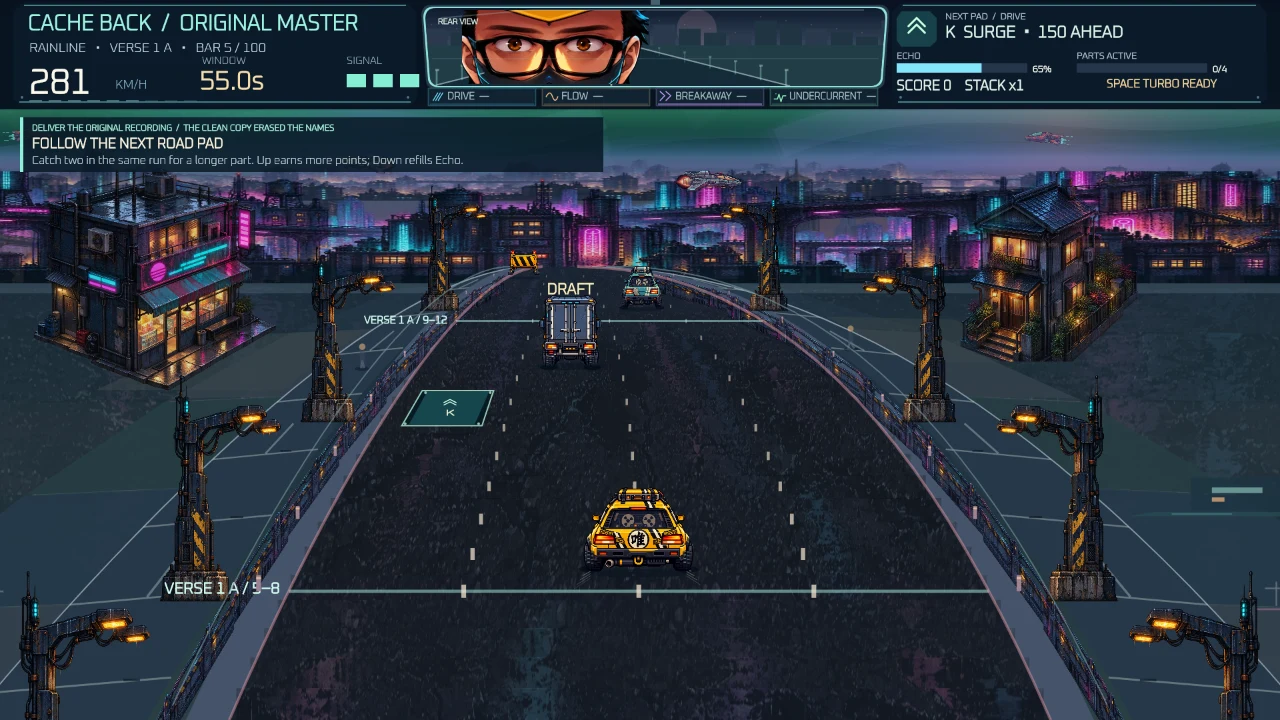
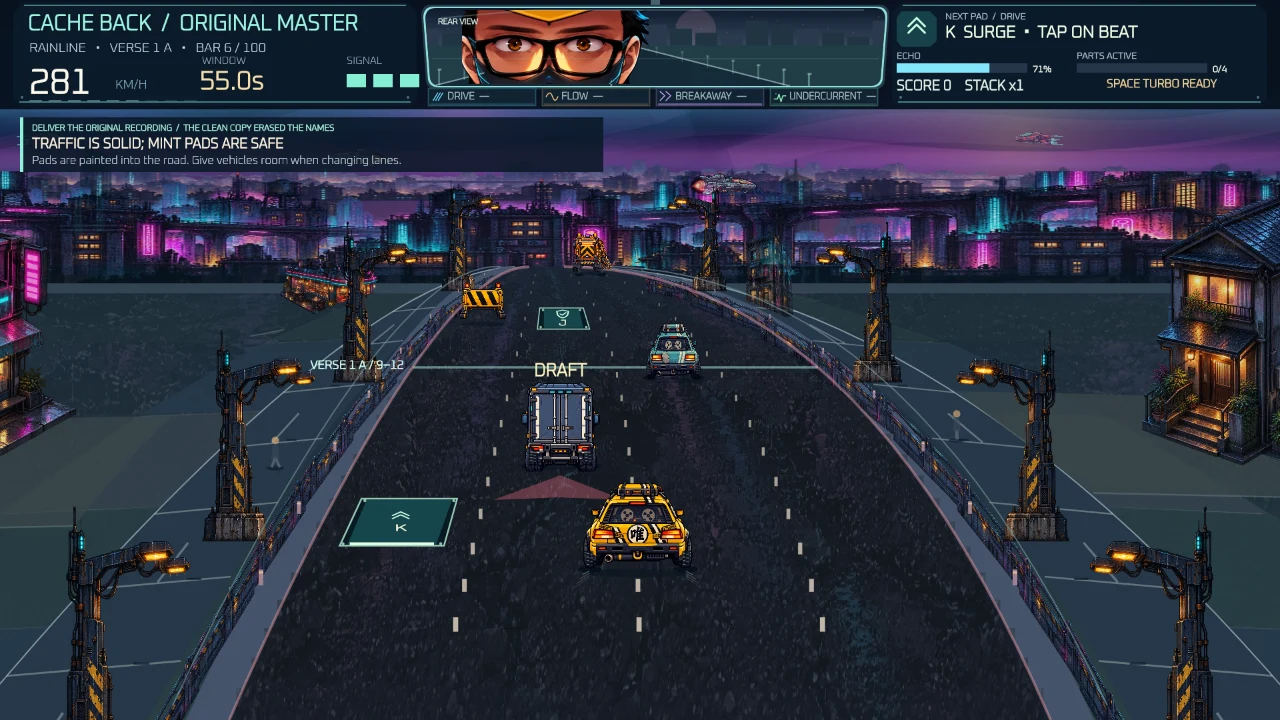
Ground roadside sites through curved crest and varied setbacks

diff --git a/src/game/cache-road-proof.js b/src/game/cache-road-proof.js
@@ -86,7 +86,10 @@ window.FILE_MANIFEST.push({ name: 'src/game/cache-road-proof.js', exports: ['BAR
       const kind=pair[(side<0?0:1)^(swapped?1:0)];
       const at=lap*LAP+PLACE_STATIONS[slot]+(side>0?25:0)+
         (lap===0&&slot===0?0:Math.round((placeRandom(seed)-.5)*42));
-      SIDE_PLACES.push({at,side,kind,size:.93+placeRandom(seed+4)*.14});
+      // A fixed lateral world offset keeps each address at its own distance
+      // from the sidewalk through turns, retries and different frame rates.
+      SIDE_PLACES.push({at,side,kind,size:.93+placeRandom(seed+4)*.14,
+        setback:18+Math.round(placeRandom(seed+9)*180)});
     }
   }
   SIDE_PLACES.sort((a,b)=>b.at-a.at);
@@ -1147,22 +1150,20 @@ window.FILE_MANIFEST.push({ name: 'src/game/cache-road-proof.js', exports: ['BAR
       // point, and the same projection continues beyond the bottom of frame.
       const roadsideX = (side,t,base,growth) =>
         center(t)+side*(half(t)+(base+growth*t)*(.1+.9*t));
-      // The painted city's bottom edge is the visible crest of the planet.
-      // A distant parcel is below that crest before its roof reaches it. Its
-      // ground and facade clear together as the road carries it toward us.
+      // A parcel is behind the planet's near ground until it passes the
+      // crest. The crest curves away from the road toward both screen edges;
+      // a horizontal per-object cut made buildings appear to materialize.
       const crest = horizon + 25;
-      const reveal = t => {
-        const u=clamp((t-.22)/.32,0,1);
-        return u*u*(3-2*u);
-      };
+      const crestY = x => crest+420*Math.pow(
+        clamp((Math.abs(x-center(0))-150)/600,0,1),2);
       const buriedFoot = t => 90*(1-clamp(t/.5,0,1));
+      const sceneFoot = t => roadY(t)+25*t+buriedFoot(t);
       const clipRoadside = (t,draw) => {
         ctx.save();
-        if(t<.54) {
-          const foot=roadY(t)+25*t+buriedFoot(t);
-          ctx.beginPath();
-          ctx.rect(0,0,1920,crest+(foot-crest)*reveal(t));
-          ctx.clip();
+        if(t<.75) {
+          ctx.beginPath();ctx.moveTo(0,0);ctx.lineTo(1920,0);
+          for(let x=1920;x>=0;x-=30)ctx.lineTo(x,crestY(x));
+          ctx.closePath();ctx.clip();
         }
         draw(); ctx.restore();
       };
@@ -1341,16 +1342,18 @@ window.FILE_MANIFEST.push({ name: 'src/game/cache-road-proof.js', exports: ['BAR
         const n=clamp(near,.11,1.2),f=clamp(far,.11,1.2);
         const side=place.side;
         clipRoadside(t,()=>{
-          ctx.globalAlpha=.58*reveal(t);
-          polygon(ctx,[[roadsideX(side,f,245,210),roadY(f)+25*f],
-            [roadsideX(side,n,245,210),roadY(n)+25*n],
-            [roadsideX(side,n,700,370),roadY(n)+40*n],
-            [roadsideX(side,f,700,370),roadY(f)+40*f]],
+          const parcelX=(tt,outer)=>roadsideX(side,tt,
+            outer?700+place.setback:230,outer?370:190);
+          ctx.globalAlpha=.75;
+          polygon(ctx,[[parcelX(f),roadY(f)+25*f],
+            [parcelX(n),roadY(n)+25*n],
+            [parcelX(n,true),sceneFoot(n)+15*n],
+            [parcelX(f,true),sceneFoot(f)+15*f]],
           place.kind==='garden'?'#344b43':
             ['garage','substation','construction'].includes(place.kind)?'#344149':'#394548');
           ctx.strokeStyle='#7e9c9970';ctx.lineWidth=1+2*n;
-          ctx.beginPath();ctx.moveTo(roadsideX(side,n,248,213),roadY(n)+25*n);
-          ctx.lineTo(roadsideX(side,n,695,365),roadY(n)+40*n);ctx.stroke();
+          ctx.beginPath();ctx.moveTo(parcelX(n),roadY(n)+25*n);
+          ctx.lineTo(parcelX(n,true),sceneFoot(n)+15*n);ctx.stroke();
         });
       }
       ctx.globalAlpha=1;
@@ -1435,7 +1438,7 @@ window.FILE_MANIFEST.push({ name: 'src/game/cache-road-proof.js', exports: ['BAR
       // house can appear at another size in the same vista.
       for(let at=Math.floor((progress+455)/68)*68;at>progress-170;at-=68) {
         const t=sideDepth(at-progress);if(t<.16||t>1.17)continue;
-        const y=roadY(t)+26*t;
+        const y=sceneFoot(t);
         for(const side of [-1,1]) {
           if(SIDE_PLACES.some(place=>place.side===side &&
             Math.abs(place.at-at)<125*place.size))continue;
@@ -1444,8 +1447,9 @@ window.FILE_MANIFEST.push({ name: 'src/game/cache-road-proof.js', exports: ['BAR
           const w=(70+placeRandom(seed+1)*85)*(.22+1.25*t);
           const h=(30+placeRandom(seed+3)*62)*(.22+1.5*t);
           // Keep even the widest kiosk/paving corner outside the walkway.
-          const x=roadsideX(side,t,220,190)+side*(w*1.2+22*t);
-          ctx.save();ctx.globalAlpha=(.43+.43*t)*reveal(t);
+          const x=roadsideX(side,t,220,190)+side*
+            (w*1.2+22*t+placeRandom(seed+5)*140*t);
+          clipRoadside(t,()=>{ctx.globalAlpha=.43+.43*t;
           // Broken wet paving and reflected sign color give the service deck
           // depth without a repeating panoramic facade.
           polygon(ctx,[[x-w*.9,y+2*t],[x+w*.72,y+2*t],
@@ -1486,7 +1490,7 @@ window.FILE_MANIFEST.push({ name: 'src/game/cache-road-proof.js', exports: ['BAR
             ctx.fillStyle='#e8ae79';ctx.fillRect(x-w*.34,y-h*.22,w*.12,h*.07);
             ctx.fillStyle='#20343f';ctx.fillRect(x+w*.32,y-h*.46,w*.12,h*.46);
           }
-          ctx.restore();
+          });
         }
       }
       // The open lot is a patch of the curved landscape; its four corners,
@@ -1496,10 +1500,10 @@ window.FILE_MANIFEST.push({ name: 'src/game/cache-road-proof.js', exports: ['BAR
         const n=clamp(sideDepth(place.at-67*place.size-progress),.06,1.18);
         const f=clamp(sideDepth(place.at+82*place.size-progress),.06,1.18);
         const lotX=(tt,outer=false)=>roadsideX(side,tt,
-          outer?605:255,outer?345:215);
-        const lotY=tt=>roadY(tt)+27*tt;
+          outer?605+place.setback:255,outer?345:215);
+        const lotY=tt=>sceneFoot(tt);
         clipRoadside(t,()=>{
-          ctx.globalAlpha=.9*reveal(t);
+          ctx.globalAlpha=.9;
           polygon(ctx,[[lotX(f),lotY(f)],[lotX(n),lotY(n)],
             [lotX(n,true),lotY(n)+17*n],[lotX(f,true),lotY(f)+17*f]],
           '#1d2b36');
@@ -1555,8 +1559,8 @@ window.FILE_MANIFEST.push({ name: 'src/game/cache-road-proof.js', exports: ['BAR
         const width=maxW*t*place.size;
         const height=width*sourceH/sourceW;
         const sidewalkEdge=roadsideX(place.side,t,220,190);
-        const x=sidewalkEdge+place.side*(width*.5+26*t);
-        const y=roadY(t)+25*t+buriedFoot(t);
+        const x=sidewalkEdge+place.side*(width*.5+(26+place.setback)*t);
+        const y=sceneFoot(t);
         clipRoadside(t,()=>{
           ctx.globalAlpha*=clamp((t-.07)/.13,0,1)*(.72+.25*t);
           B.PresentationAssets?.draw?.(key,ctx,{

diff --git a/docs/source-pack/CACHE_ROAD_ROADSIDE_CAMERA_OVERHAUL.md b/docs/source-pack/CACHE_ROAD_ROADSIDE_CAMERA_OVERHAUL.md
@@ -1,4 +1,4 @@
-# Cache Road roadside camera overhaul — September 25, 2026
+# Cache Road roadside camera and crest correction — September 25, 2026
 
 Base and rollback: merged #126, `a5ba87433809de73a6027ec2eac50de040b8b71d`.
 The owner rejected its visual result. The two supplied screenshots show a
@@ -6,6 +6,11 @@ parked traffic car detached from any legible lot, a small park along the
 city's bottom edge, and empty ground between the road and far sites. The
 previous native checks proved that draw calls occurred; they did not prove
 that the composition worked during a drive.
+
+The owner then reviewed draft #127 and showed five more game frames plus a
+red diagonal path. The first revision's horizontal clip exposed a building's
+lower pixels while its parcel stayed visually disconnected. The correction
+below replaces that horizontal reveal and varies each site's road setback.
 
 ## Camera and place rules
 
@@ -17,9 +22,17 @@ that the composition worked during a drive.
   The second late-arrival easing multiplier is gone. A building grows at a
   steady rate through distant, middle and near stages, then exits the screen.
 - The painted foreground city ends at screen-world y=425. Distant site feet
-  sit behind this crest; roofs enter first. A continuous clip reveals the
-  lower facade and parcel as it approaches, and clears entirely by depth
-  0.54. Site scale does not accelerate during this reveal.
+  travel behind a **curved** ground crest that recedes toward either screen
+  edge. The same crest masks the complete painted site, its projected parcel,
+  open parking lot and small filler. The top emerges first; the footing and
+  ground clear as the site moves outward along the road's world path. There
+  is no independent horizontal ground wipe, ground reveal fade or late size
+  acceleration. A near-site clip ends after the footing has nearly cleared.
+- Each site gets a seeded lateral setback of 18–198 projected world units.
+  The building and its parcel move outward together; the open lot's outer
+  bays stretch outward while its entrance remains near the sidewalk. This
+  creates near and deep addresses on each side without moving any footprint
+  onto the walkway. Low landscape filler also varies its setback.
 - The three city paintings use one bounded camera bearing derived from the
   road's path and tangent, at 0.22, 0.50 and 0.85 parallax ratios. They have
   fixed overscan and no modulo tile scroll. Reduced Motion fixes their pan.
@@ -36,19 +49,22 @@ and power-up backlog remain in `CACHE_ROAD_COHESION_AUDIT.md`.
 ## Visual inspection and limits
 
 The production Canvas renderer was sampled at fourteen road distances in
-the opening lap and fourteen in the third lap, including buildings, the
-parking lot, park and bends. A continuous 32-second production draw covered
+the opening lap, fifteen additional steps through the first reveal, and
+fourteen in the third lap. A continuous 32-second production draw covered
 the first lap at fifteen frames per second. Review frames:
 
-- `review-cache-roadside-camera/opening.webp` — market/house size and setback
+- `review-cache-roadside-camera/opening.webp` — early roof emergence
 - `review-cache-roadside-camera/park.webp` — open lot and complete park
 - `review-cache-roadside-camera/later-bend.webp` — mixed site types and traffic
 - `review-cache-roadside-camera/third-lap.webp` — reversed side sequence
+- `review-cache-roadside-camera/horizon-sequence.webp` — four successive
+  right-side frames from roof through fully revealed, near-side facade
 
-The focused production test checks a three-stage roof reveal, steady growth,
-visible sidewalk clearance, facing, a whole park, absence of parking cars,
-and city parallax sharing one camera bearing. The full suite and syntax gate
-belong to the exact revision receipt. These draws are visual evidence from
+The focused production test checks a three-stage roof reveal, a curved mask,
+steady growth, varied sidewalk clearance, facing, a whole park, absence of
+parking cars, no cut-to-clear footing jump, and city parallax sharing one
+camera bearing. The full suite and syntax gate belong to the exact revision
+receipt. These draws are visual evidence from
 the actual road renderer, not a Makko capture, human drive, audio listening
 verdict, or owner acceptance. The park's painted slab and sparse outer
 landscape are still visual judgments for a normal-size Makko drive; the

diff --git a/docs/source-pack/ACCEPTANCE.md b/docs/source-pack/ACCEPTANCE.md
@@ -1,6 +1,29 @@
 # Acceptance and Test Status
 
+## Cache Road curved crest and varied site distance — September 25
+
+From the exact merged build, follow one building on each side at normal
+speed. Its roof should first peek above the city/planet crest while the
+parcel is obstructed. The full facade and ground should clear together on
+the diagonal path before the site passes outside the sidewalk. Follow the
+park, open parking lot and small trees through the same reveal. Compare
+several locations: some should stand visibly deeper in the landscape than
+others, while their projected ground keeps them attached to the side street.
+Check a later bend, third-lap reversal and Reduced Motion. The city layers,
+streetlights and sidewalk should maintain the road's motion; no off-road
+traffic car or duplicate whole building should appear.
+
+The close-spaced production frames, third-lap stills and continuous Canvas
+draw were visually inspected. Focused production geometry checks cover a
+curved crest, roof/base/clear stages, sidewalk clearance, varying setback,
+facing and no sudden lower-edge pop at the near handoff. The full repository
+gate and exact revision are in the receipt. These scripted frames cannot
+establish Makko appearance, performance, audio or controller feel; owner
+acceptance remains open. See `CACHE_ROAD_ROADSIDE_CAMERA_OVERHAUL.md`.
+
 ## Cache Road coherent roadside camera — September 25
+
+Historical first #127 draft: its horizontal reveal was corrected above.
 
 Review the proposed correction against the owner's full game frame and crop.
 Drive at normal size through the first park and parking lot, then a later bend

diff --git a/docs/source-pack/PR_DESCRIPTION.md b/docs/source-pack/PR_DESCRIPTION.md
@@ -1,5 +1,14 @@
 # Cache Road roadside camera overhaul
 
+Updated after owner review of draft #127: the previously horizontal clip
+made distant building bottoms appear over disconnected terrain. The current
+revision masks buildings, parcels, open lot and low filler behind a curved
+roadside crest; roofs and trees emerge first and the full scene clears as it
+passes outward. Each seeded site now has its own lateral setback, with its
+ground stretched to remain attached and the sidewalk left open. Review the
+four-stage sequence and third-lap frames in
+`CACHE_ROAD_ROADSIDE_CAMERA_OVERHAUL.md`.
+
 The owner rejected merged #126 after showing the actual game frame: parking
 cars looked stranded off the road, the park and distant roofs sat awkwardly
 against the visible horizon, the city layers scrolled independently, and
@@ -10,7 +19,7 @@ and pans all three city layers from one bounded camera bearing. The
 underlying site list, exterior sidewalk, road, lights, lane traffic, music,
 controls and saves remain as before.
 
-Inspect `CACHE_ROAD_ROADSIDE_CAMERA_OVERHAUL.md` and its four frames, then
+Inspect `CACHE_ROAD_ROADSIDE_CAMERA_OVERHAUL.md` and its staged frames, then
 watch the continuous drive at normal size. Focused production geometry and
 full repository checks belong to the exact revision receipt. Scripted draws
 are not Makko play, audio/controller judgment or owner acceptance. The

diff --git a/docs/source-pack/CURRENT_STATE.md b/docs/source-pack/CURRENT_STATE.md
@@ -1,6 +1,23 @@
 # Current State
 
+## September 25 — curved crest and varied site distance in draft #127
+
+The owner inspected the first #127 draw and found that distant building
+bases looked cut off and then appeared over flat terrain. Five marked game
+frames show the intended diagonal approach: roofs and treetops peek from
+behind the planet horizon, then each complete site clears and passes the
+car. The updated draw uses one curved roadside crest for buildings, parcels,
+the open lot and low filler. Seeded site setbacks move their art and ground
+together at varying distances beyond the sidewalk. Opening, close-spaced
+reveal, third-lap and continuous production renders were inspected; focused
+geometry checks cover the crest and spacing. The actual Makko visual result
+still needs owner review. Details and evidence are in
+`CACHE_ROAD_ROADSIDE_CAMERA_OVERHAUL.md`; adrenaline and power-ups remain
+in `CACHE_ROAD_COHESION_AUDIT.md`.
+
 ## September 25 — cohesive roadside camera after owner rejected #126
+
+Historical first #127 draft: the horizontal clip was corrected above.
 
 The owner supplied a game frame and crop showing off-road cars, a low/overlaid
 location reveal at the visible city horizon, city layers drifting without a

diff --git a/AGENTS.md b/AGENTS.md
@@ -1,5 +1,19 @@
 # Repository Guidance
 
+## September 25, 2026 — owner corrected #127 crest and site setback
+
+The owner showed five more game frames and a red approach path. The first
+#127 clip hid distant bottoms behind an independently rising horizontal line;
+the lower facade appeared without convincing contact with the landscape.
+Use a curved, road-bearing crest for the same roofs, low filler, parcel and
+open lot. Their footing and parcel ground share a projected path; a whole
+site becomes visible as it moves outward and toward the player. Give each
+seeded location its own lateral distance beyond the sidewalk, including its
+ground/lot. Do not reintroduce floating contact ovals. Inspect consecutive
+actual renderer frames, both sides and a later bend. Keep #127's city-camera
+pan, original art and gameplay/music, and the open power-up backlog. See
+`docs/source-pack/CACHE_ROAD_ROADSIDE_CAMERA_OVERHAUL.md`.
+
 ## September 25, 2026 — owner rejected #126 roadside result
 
 The owner supplied a full game frame and a close crop after merged #126.

diff --git a/docs/source-pack/CHANGELOG.md b/docs/source-pack/CHANGELOG.md
@@ -1,5 +1,18 @@
 # Recovery checkpoint — September 14
 
+## September 25, 2026 — curved crest and individual setbacks in #127
+
+- Replace the first #127 horizontal per-site clip with a road-bearing curved
+  ground crest. Apply the same obstruction to separate buildings, parcel
+  ground, open lot and low filler, so tops peek first and complete locations
+  travel into view along a diagonal path.
+- Give each seeded address an independent lateral offset outside the outer
+  sidewalk; stretch its parcel or open lot with it. Remove the temporary
+  contact oval that looked like a floating shadow.
+- Inspect a close-spaced opening sequence, later bend, third lap and 32-second
+  native drive. Focused geometry asserts curved occlusion, near clearing,
+  stable spacing and exterior placement. Makko owner judgment remains open.
+
 ## September 25, 2026 — roadside camera overhaul after rejected #126
 
 - Remove the three parked copies of game traffic that read as stranded cars

diff --git a/docs/source-pack/DECISION_REGISTER.md b/docs/source-pack/DECISION_REGISTER.md
@@ -1,5 +1,17 @@
 # Decision Register
 
+## September 25, 2026 — site crest and variable roadside setback
+
+The owner corrected draft #127 with five marked frames. Distant buildings
+and trees must peek from behind the horizon; their ground and complete scene
+should clear along the road's diagonal approach, without a detached or
+horizontal lower-edge reveal. Each site should have its own distance from
+the road, and its parcel should follow it. Keep locations exterior to the
+sidewalk, original game art, road-facing fronts, the coherent city camera
+and traffic. The curved crest and seeded site offsets are in
+`CACHE_ROAD_ROADSIDE_CAMERA_OVERHAUL.md`. Owner Makko review remains open;
+visual work still precedes the adrenaline and power-up tune.
+
 ## September 25, 2026 — roadside camera and horizon correction
 
 The owner rejected merged #126 in supplied game screenshots. No decorative

diff --git a/docs/source-pack/README.md b/docs/source-pack/README.md
@@ -1,6 +1,19 @@
 # BARCODE: SYSTEM OVERRIDE — Source Pack v5
 
+## Current review — curved crest and varied roadside sites
+
+The owner corrected the first #127 draft with marked game frames. Roofs and
+treetops now emerge behind a curved ground crest, then the whole site and its
+projected parcel clear along the road. Seeded address setbacks vary the
+distance beyond the sidewalk. Start with
+`CACHE_ROAD_ROADSIDE_CAMERA_OVERHAUL.md`, `CURRENT_STATE.md` and the first
+`ACCEPTANCE.md` route. The adrenaline and defense/offense/traffic/
+environment/song/lane power-up list remains open in
+`CACHE_ROAD_COHESION_AUDIT.md`.
+
 ## Current review — cohesive roadside camera
+
+Historical first #127 draft: its horizontal reveal was corrected above.
 
 Start with `CACHE_ROAD_ROADSIDE_CAMERA_OVERHAUL.md`, `CURRENT_STATE.md`
 and the first `ACCEPTANCE.md` route. The owner rejected merged #126 after
